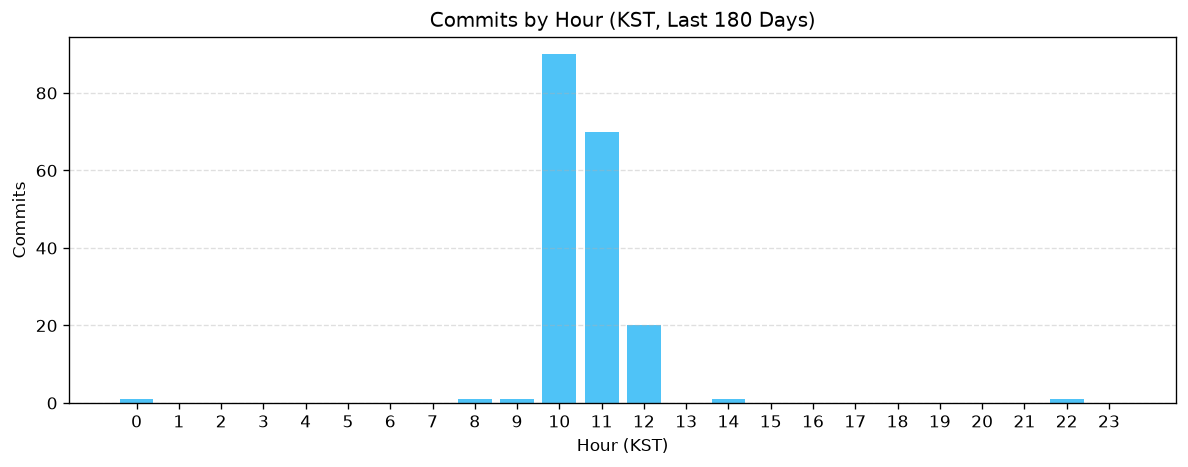
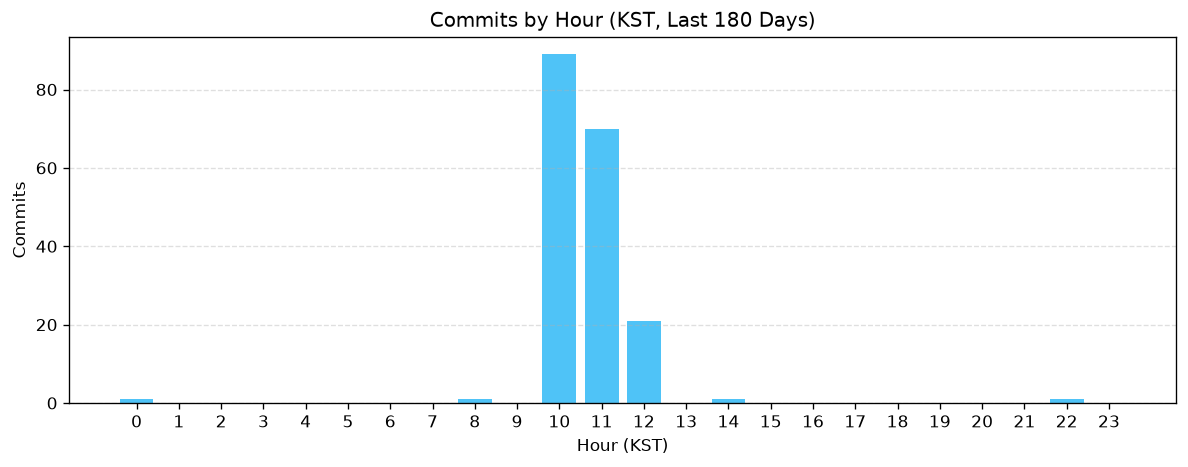
🤖 chore: update ${DAYS}d hourly commit stats (KST)

diff --git a/README.md b/README.md
@@ -29,7 +29,7 @@
 
 <!--START_SECTION:commit_hours-->
 <p align="center">
-<img src="commit-hours.png?ts=1782013617" width="100%" alt="Commits by hour (KST)"/>
+<img src="commit-hours.png?ts=1782100357" width="100%" alt="Commits by hour (KST)"/>
 </p>
 <!--END_SECTION:commit_hours-->
 
